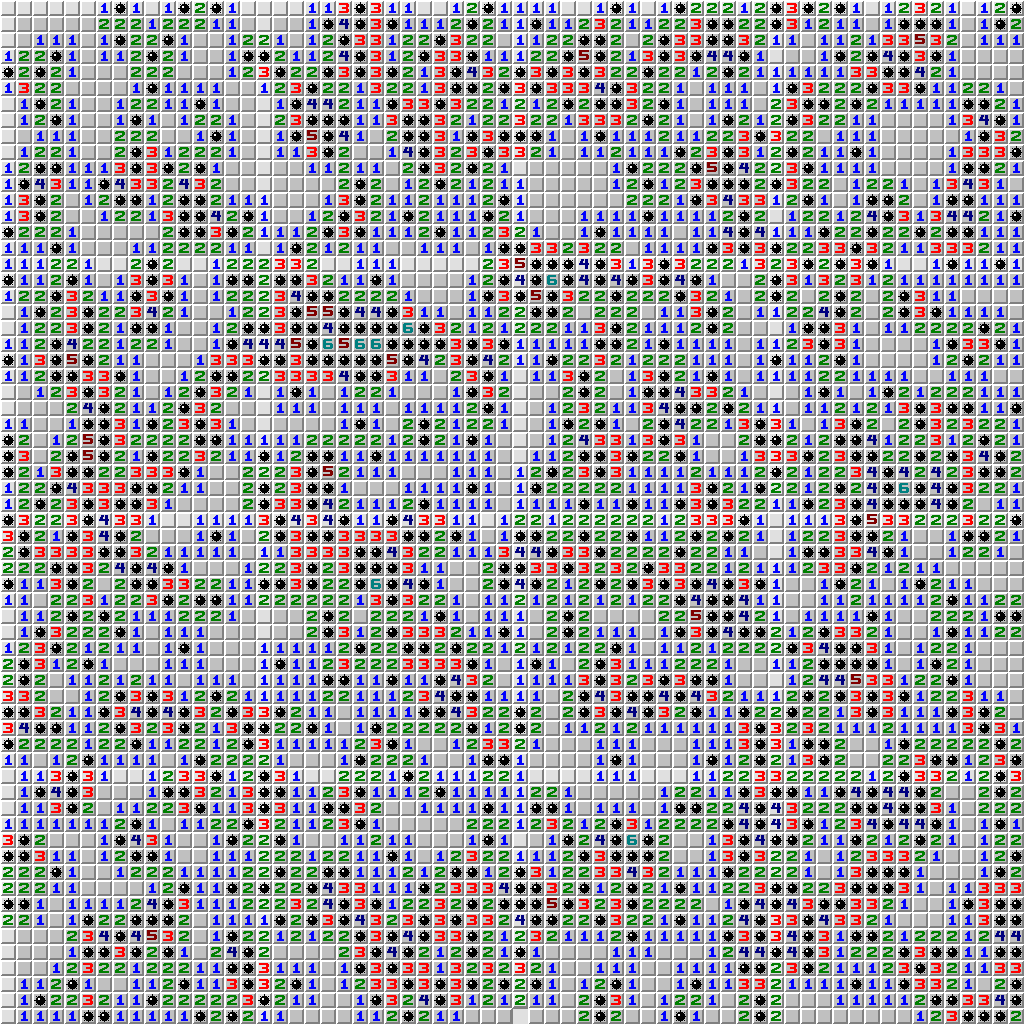
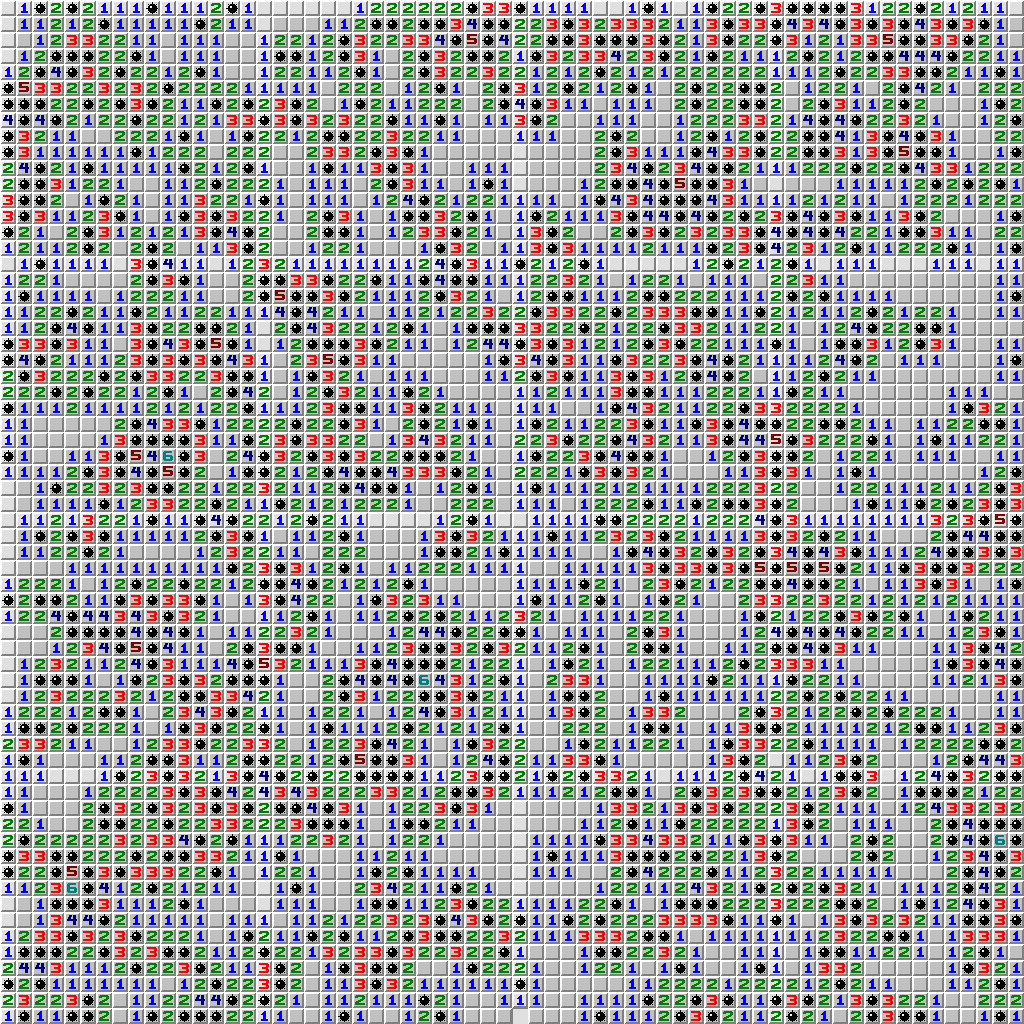
Finished the development of GUI

Changed region(s): [[0.0, 0.0, 1.0, 1.0]]

diff --git a/codes/gui.py b/codes/gui.py
@@ -1,19 +1,30 @@
 import sys
 import os
+import time
 import random
 import frame
 import solution
 import numpy as np
+import pyqtgraph as pg
+import matplotlib.animation as animation
 
-from PyQt5.QtWidgets import QApplication, QMainWindow, QMenu, QVBoxLayout, QSizePolicy, QMessageBox, QWidget, QPushButton, QWidget, QSlider, QLabel
+from PyQt5.QtWidgets import (QApplication, QMainWindow, QMenu, QVBoxLayout,
+    QSizePolicy, QMessageBox, QWidget, QPushButton, QWidget, QSlider, QLabel,
+    QGridLayout, QGroupBox, QLineEdit)
 from PyQt5.QtGui import QIcon
-from PyQt5.QtCore import pyqtSlot, Qt
-from matplotlib import pyplot as plt
-from matplotlib.backends.backend_qt5agg import FigureCanvasQTAgg as FigureCanvas
+from PyQt5.QtCore import pyqtSlot, Qt, QRectF
 from matplotlib.figure import Figure
 from PIL import Image, ImageChops
+from threading import Thread
+from matplotlib import pyplot as plt
+from matplotlib.figure import Figure
+from matplotlib.animation import TimedAnimation
+from matplotlib.lines import Line2D
+from matplotlib.backends.backend_qt5agg import FigureCanvasQTAgg as FigureCanvas
+from matplotlib.animation import FuncAnimation
 
-class Window(QMainWindow):
+
+class Window(QWidget):
 
     def __init__(self):
         super().__init__()
@@ -26,38 +37,120 @@ class Window(QMainWindow):
         self.cnt = 0
 
     def initUI(self):
+        grid = QGridLayout()
+
+        self.canvas = Canvas(self, width=12.9, height=9.6)
+        grid.addWidget(self.canvas, 0, 0, 10, 10)
+
+        grid.addWidget(self.initConfigGroup(), 0, 11)
+
+        self.labelStep = self.initLabel("Current Step: 0")
+        grid.addWidget(self.labelStep, 11, 11)
+
+        self.buttonStartAnimation = QPushButton('Start animation', self)
+        self.buttonStartAnimation.clicked.connect(self.animate)
+        self.buttonStartAnimation.setEnabled(False)
+        grid.addWidget(self.buttonStartAnimation, 1, 11)
+
+        self.buttonSave = QPushButton('Save animation to file', self)
+        self.buttonSave.clicked.connect(self.save)
+        self.buttonSave.setEnabled(False)
+        grid.addWidget(self.buttonSave, 2, 11)
+
+        self.slider = self.initSlider()
+        self.slider.setEnabled(False)
+        grid.addWidget(self.slider, 11, 0)
+
         self.setWindowTitle(self.title)
         self.setGeometry(self.left, self.top, self.width, self.height)
-
-        self.canvas = Canvas(self, width=12, height=9)
-        self.canvas.move(0,0)
-
-        button1 = QPushButton('Reserved position', self)
-        button1.setToolTip('This is an example button')
-        button1.clicked.connect(self.button1_on_click)
-        button1.move(1280,0)
-        button1.resize(256,100)
-
-        slider = QSlider(Qt.Horizontal, self)
-        slider.setFocusPolicy(Qt.NoFocus)
-        slider.setGeometry(1280, 100, 100, 50)
-        slider.valueChanged[int].connect(self.changeValue)
-
+        self.setLayout(grid)
         self.show()
 
+
+    def initLabel(self, text):
+        label = QLabel(self)
+        label.setText(text)
+        return label
+
+    def initConfigGroup(self):
+        groupBox = QGroupBox("Configurations")
+
+        grid = QGridLayout()
+        grid.addWidget(self.initLabel("Size:"), 0, 0)
+        grid.addWidget(self.initLabel("Mines:"), 1, 0)
+
+        self.lineEditX = QLineEdit(self)
+        self.lineEditX.setText("10")
+        #self.lineEditX.setText("64")
+        self.lineEditY = QLineEdit(self)
+        #self.lineEditY.setText("64")
+        self.lineEditY.setText("10")
+        self.lineEditMines = QLineEdit(self)
+        #self.lineEditMines.setText("800")
+        self.lineEditMines.setText("10")
+
+        grid.addWidget(self.lineEditX, 0, 1)
+        grid.addWidget(self.lineEditY, 0, 2)
+        grid.addWidget(self.lineEditMines, 1, 1)
+
+        self.buttonStart = QPushButton('Generate and Solve', self)
+        self.buttonStart.clicked.connect(self.start)
+        grid.addWidget(self.buttonStart, 2, 0, 1, 3)
+
+        groupBox.setLayout(grid)
+        return groupBox
+
+    def initSlider(self):
+        slider = QSlider(Qt.Horizontal, self)
+        slider.setFocusPolicy(Qt.NoFocus)
+        slider.setMaximum(10)
+        slider.setGeometry(0, 900, self.width, 50)
+        slider.valueChanged[int].connect(self.changeValue)
+        slider.sliderReleased.connect(self.releaseSlider)
+        return slider
+
+    def releaseSlider(self):
+        value = self.slider.value()
+        self.canvas.plotOne(value)
+
     def changeValue(self, value):
-        if value % 10 == 0:
-            self.canvas.plotFromFile(int(value / 10))
+        self.labelStep.setText("Step: " + repr(value))
 
-    @pyqtSlot()
-    def button1_on_click(self):
-        self.deal()
+    def animate(self, p, beacon = 16, cheat = False):
+        if isinstance(p, bool):
+            p = self.p
+        self.buttonStartAnimation.setEnabled(False)
+        self.canvas.start(p)
+        self.buttonStartAnimation.setEnabled(True)
+        #self.buttonSave.setEnabled(True)
 
-    def deal(self):
-        m = frame.board(64, 64, 800)
-        m.start(m.rows-1, m.cols//2)
-        self.cnt += 1
-        self.canvas.plot(m, cnt = self.cnt, cheat = True)
+    def start(self):
+        self.buttonStart.setEnabled(False)
+        self.buttonStart.setText('Solving, please wait')
+
+        rows = int(self.lineEditX.text())
+        cols = int(self.lineEditY.text())
+        mines = int(self.lineEditMines.text())
+        print('Trying to construct a(an) ' + repr(rows) + 'x' + repr(cols) + ' maze with ' + repr(mines) + ' mines')
+        m = frame.board(rows, cols, mines)
+        #self.canvas.initUI(m)
+        #self.initCanvas(m)
+        print('Construction completed.')
+        self.p = solution.player(m)
+        print('Player is ready, trying to sweep mines.')
+        self.p.solve()
+        print('Done')
+
+        self.slider.setMaximum(len(self.p.history) - 1)
+        self.animate(self.p)
+        self.buttonStart.setText('Generate and Solve')
+        self.buttonStart.setEnabled(True)
+        self.slider.setEnabled(True)
+
+    def save(self):
+        self.buttonSave.setEnabled(False)
+        self.canvas.save()
+        self.buttonSave.setEnabled(True)
 
 class Canvas(FigureCanvas):
 
@@ -65,19 +158,114 @@ class Canvas(FigureCanvas):
         #fig = Figure(figsize=(width, height), dpi=dpi)
         #self.axes = fig.add_subplot(111)
 
-        fig = plt.figure(figsize=(width, height), dpi=dpi)
-        FigureCanvas.__init__(self, fig)
+        self.fig = plt.figure(figsize=(width, height), dpi=dpi)
+        FigureCanvas.__init__(self, self.fig)
         self.setParent(parent)
 
         FigureCanvas.setSizePolicy(self,
                 QSizePolicy.Expanding,
                 QSizePolicy.Expanding)
         FigureCanvas.updateGeometry(self)
-        self.initUI()
+        #self.initUI()
         #self.plot()
 
-    def initUI(self):
-        m = frame.board(64, 64, 0)
+    def start(self, player, _beacon = 16, _cheat = False):
+        print('Started plotting')
+        global currentStep
+        global p
+        global beacon
+        global cheat
+        global anim
+        currentStep = 0
+        p = player
+        beacon = _beacon
+        cheat = _cheat
+        anim = FuncAnimation(self.fig, self.animate, init_func = self.init, interval =
+                             20, blit = True)
+        #m = frame.board(p.m.rows, p.m.cols, p.m.mines)
+        #self.image = np.zeros((m.rows*16, m.cols*16, 3), dtype = np.uint8)
+        #img = Image.fromarray(self.image)
+        #img = ImageChops.invert(img)
+        #plt.imshow(img)
+        ##plt.show()
+        self.draw()
+        print('Plotting completed')
+
+    def init(self):
+        print('Initializing animation')
+        global p
+        global image
+        global beacon
+        global cheat
+        m = frame.board(p.m.rows, p.m.cols, p.m.mines)
+        image = np.zeros((m.rows*16, m.cols*16, 3), dtype = np.uint8)
+        for row in range(m.rows):
+            for col in range(m.cols):
+                image[row*16 : row*16+16, col*16 : col*16+16] = m.tile(covered = m.covered[row, col], mine = m._mine[row, col], clue = m._clue[row, col], hint = m.hint[row, col], flag = m.flag[row, col], beacon = beacon and not (row%beacon and col%beacon), cheat = cheat)
+        img = Image.fromarray(image)
+        img = ImageChops.invert(img)
+        im = plt.imshow(img, animated = True)
+        print('Initialization completed')
+        return im,
+
+    def plotOne(self, i):
+        print('Plotting step ' + repr(i) + ' . Please wait.')
+        global currentStep
+        global image
+        l = 0
+        r = i + 1
+        if i >= currentStep:
+            l = currentStep
+        else:
+            m = frame.board(p.m.rows, p.m.cols, p.m.mines)
+            image = np.zeros((m.rows*16, m.cols*16, 3), dtype = np.uint8)
+            for row in range(m.rows):
+                for col in range(m.cols):
+                    image[row*16 : row*16+16, col*16 : col*16+16] = m.tile(covered = m.covered[row, col], mine = m._mine[row, col], clue = m._clue[row, col], hint = m.hint[row, col], flag = m.flag[row, col], beacon = beacon and not (row%beacon and col%beacon), cheat = cheat)
+            img = Image.fromarray(image)
+            img = ImageChops.invert(img)
+            im = plt.imshow(img, animated = True)
+            self.draw()
+        for j in range(l ,r):
+            print('Drawing step ' + repr(j))
+            [x, y], hint = p.history[j]
+            if hint == 'safe':
+                p.m.hint[x, y] = p.m.explore(x, y)
+            elif hint == 'flag':
+                p.m.flag[x, y] = True
+            image[x*16 : x*16+16, y*16 : y*16+16] = p.m.tile(covered = p.m.covered[x, y], mine = p.m._mine[x, y], clue = p.m._clue[x, y], hint = p.m.hint[x, y], flag = p.m.flag[x, y], beacon = beacon and not (x%beacon and y%beacon), cheat = cheat)
+        img = Image.fromarray(image)
+        img = ImageChops.invert(img)
+        im = plt.imshow(img, animated = True)
+        self.draw()
+
+    def animate(*args):
+        global currentStep
+        global p
+        global beacon
+        global cheat
+        global image
+        global anim
+        print('Drawing step ' + repr(currentStep))
+        [x, y], hint = p.history[currentStep]
+        if hint == 'safe':
+            p.m.hint[x, y] = p.m.explore(x, y)
+        elif hint == 'flag':
+            p.m.flag[x, y] = True
+        image[x*16 : x*16+16, y*16 : y*16+16] = p.m.tile(covered = p.m.covered[x, y], mine = p.m._mine[x, y], clue = p.m._clue[x, y], hint = p.m.hint[x, y], flag = p.m.flag[x, y], beacon = beacon and not (x%beacon and y%beacon), cheat = cheat)
+        img = Image.fromarray(image)
+        img = ImageChops.invert(img)
+        im = plt.imshow(img, animated = True)
+        print('Finished')
+        currentStep += 1
+        if currentStep >= len(p.history):
+            print('Stop!')
+            anim.event_source.stop()
+        return im,
+
+    def initUI(self, m = None):
+        if m is None:
+            m = frame.board(self.rows, self.cols, self.mines)
         self.image = np.zeros((m.rows*16, m.cols*16, 3), dtype = np.uint8)
         self.plot(m, cnt = 0)
 
@@ -89,17 +277,42 @@ class Canvas(FigureCanvas):
         img = ImageChops.invert(img)
         plt.imshow(img)
         self.draw()
-        img.save(filePath + "step" + repr(cnt) + '.png')
+        #img.save(filePath + "step" + repr(cnt) + '.png')
 
     def plotFromFile(self, cnt):
         img = Image.open(filePath + "step" + repr(cnt) + '.png')
         plt.imshow(img)
         self.draw()
 
+    def plotFromHistory(self, p, cnt, beacon = 16, cheat = False):
+        print('Drawing step ' + repr(cnt))
+        [x, y], hint = p.history[cnt]
+        p.m.hint[x, y] = p.m.explore(x, y)
+        self.image[x*16 : x*16+16, y*16 : y*16+16] = p.m.tile(covered = p.m.covered[x, y], mine = p.m._mine[x, y], clue = p.m._clue[x, y], hint = p.m.hint[x, y], flag = p.m.flag[x, y], beacon = beacon and not (x%beacon and y%beacon), cheat = cheat)
+        img = Image.fromarray(self.image)
+        img = ImageChops.invert(img)
+        plt.imshow(img)
+        #plt.pause(0.0001)
+        self.draw()
+        #plt.draw()
+        print('Finished')
+
+    def save(self):
+        Writer = animation.writers['ffmpeg']
+        writer = Writer(fps=15, metadata=dict(artist='Me'), bitrate=1800)
+        global anim
+        global currentStep
+        currentStep = 0
+        anim.save(filePath + 'animation.mp4', writer = writer)
+
 if __name__ == '__main__':
     global filePath
+    global fileCnt
     filePath = os.path.dirname(os.path.realpath(__file__))
     filePath = os.path.join(filePath, '../pics/')
+    #fileCnt = len([fileName for fileName in os.listdir(filePath) if
+    #               os.path.isfile(filePath + fileName)])
+    #print(os.listdir(filePath))
     application = QApplication(sys.argv)
     ex = Window()
     sys.exit(application.exec_())
